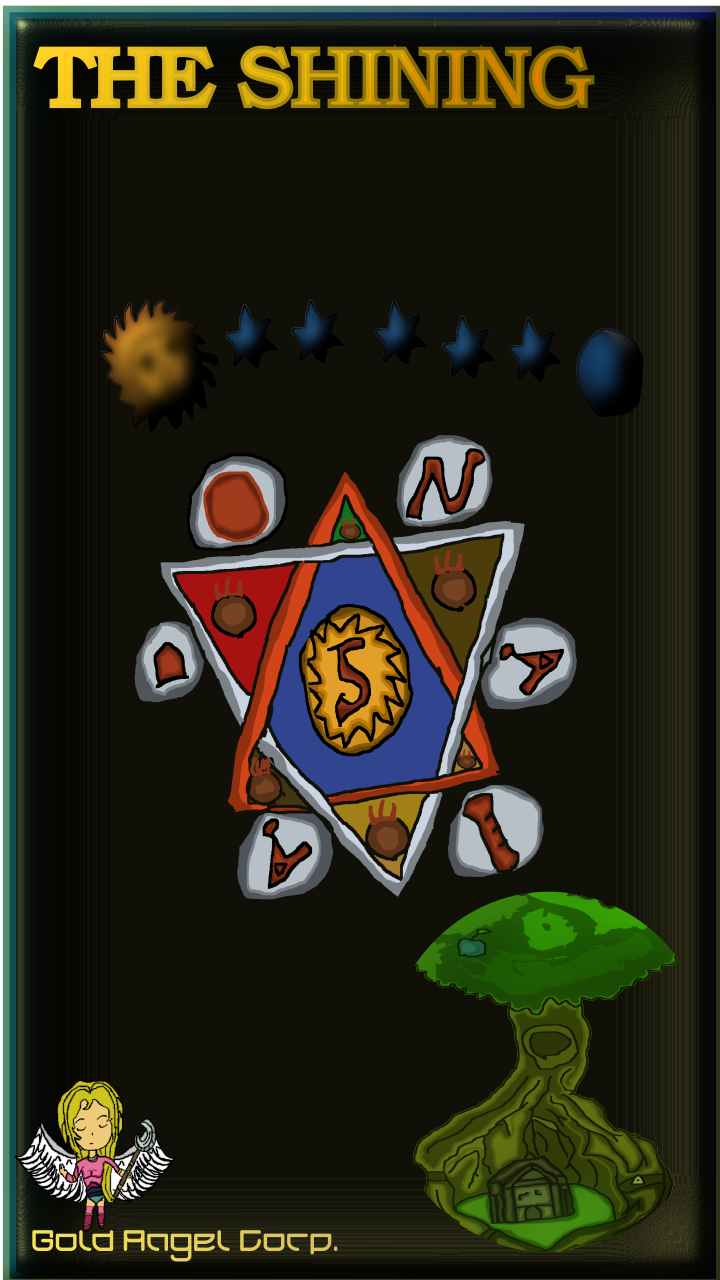
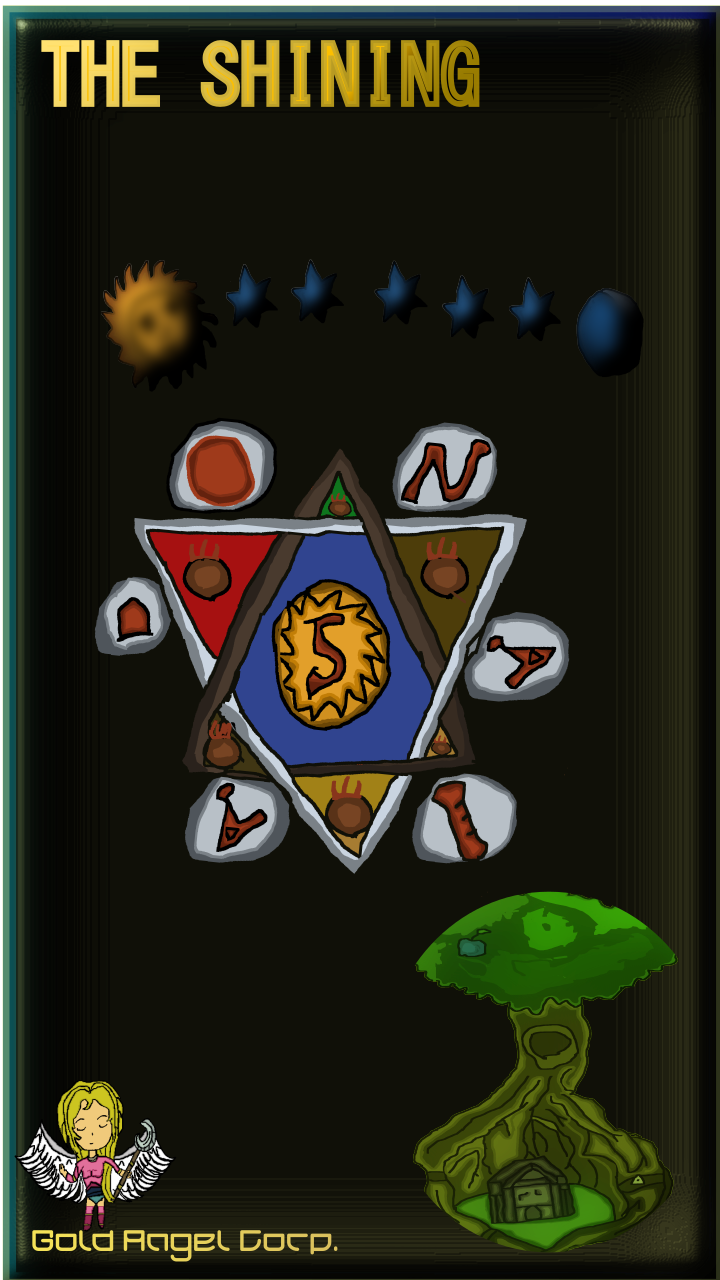
Gold Angel Corporation

diff --git a/the_shining/the_shining.html b/the_shining/the_shining.html
@@ -54,10 +54,10 @@
                 </table>
                 <table>
                     <tr>
-                        <td colspan="3"><p>The Shining is a isometric RPG about Alchemy! You need to find a cure for the King Baron Disease. So you need to travel for four worlds in another dimension to complete your task!</p><br /></td>
+                        <td colspan="3"><p>The Shining is a isometric RPG about Alchemy! You need to find a cure for the King Baron Disease. So you must to travel through the four worlds in another dimension to complete your task!</p><br /></td>
                     </tr>
                     <tr>
-                       <td><a href="https://i.ibb.co/sgpzYxF/The-Shining-Title-Screen-Updated-2025-01-26-03-08-59.png" ><img src="../images/the_shining/The Shining - Title Screen (Updated) - 2025-01-26 - 03-08-59.png" class="screenshots" /><br />Title Screen</a></td>
+                       <td><a href="https://i.ibb.co/pj3pyg0Q/The-Shining-Title-Screen-2025-01-29-22-51-11-Update.png" ><img src="../images/the_shining/The Shining - Title Screen - 2025-01-29 - 22-51-11 [Update].png" class="screenshots" /><br />Title Screen</a></td>
                        <td><a href="https://i.ibb.co/m5VfzjS/The-Shining-Marie-s-House-Edited-2024-12-11-20-52-25.png" ><img src="../images/the_shining/the-shining-maries-house.png" class="screenshots" /><br />Marie's House on Kingdom Baron</a></td>
                    </tr>
                 </table>
